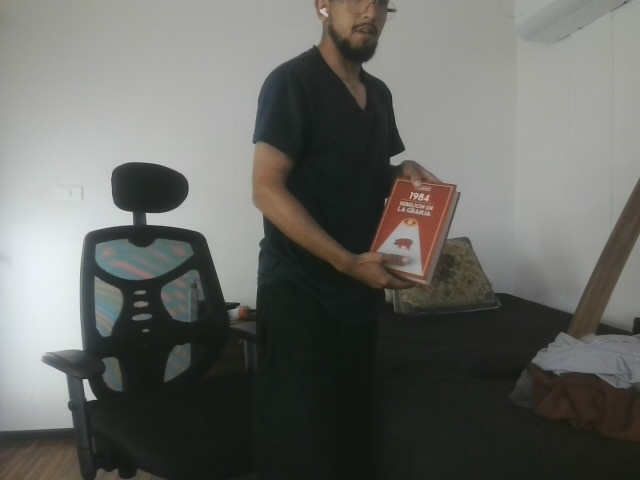
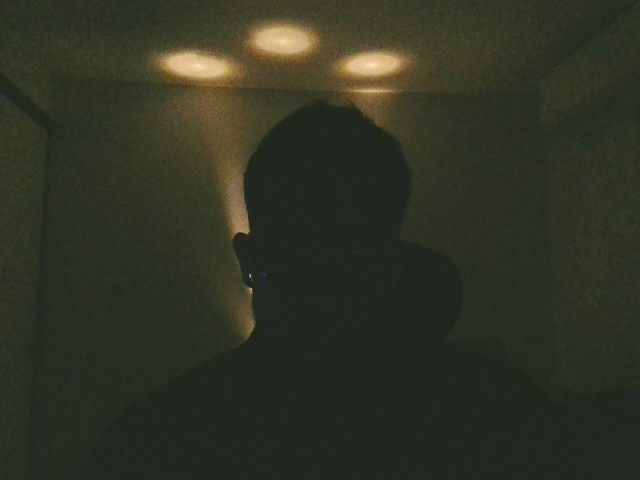
Initial commit: Estructura del proyecto y lógica

diff --git a/backend/monitor.py b/backend/monitor.py
@@ -2,91 +2,128 @@ import cv2
 from ultralytics import YOLO
 import requests
 import time
-import numpy as np
 
-# Configuración
+# --- CONFIGURACIÓN ---
+# Asegúrate de que api.py esté corriendo en el puerto 8000
 API_URL = "http://127.0.0.1:8000/analizar/1"
 model_obj = YOLO('yolov8n.pt')      
 model_pose = YOLO('yolov8n-pose.pt') 
 
+# [x1, y1, x2, y2]
 ESTANTE_ROI = [450, 100, 630, 450] 
 
 cap = cv2.VideoCapture(0)
 frame_buffer = []
 last_analysis_time = 0
 
-# --- NUEVOS PARÁMETROS DE INGENIERÍA ---
-frames_desaparecido = 0 
-UMBRAL_ROBO = 45 # Aumentamos a 45 frames (~1.5 a 2 segundos de "espera")
-objeto_es_de_la_tienda = False 
-visto_fuera_del_estante = 0 # Para asegurar que realmente lo tienes en la mano
+# --- PARÁMETROS DE INVENTARIO (FLEXIBLES) ---
+stock_esperado = {73: 1, "BOTELLA": 1} 
+frames_desaparicion = 0 
+UMBRAL_ROBO = 70 
 
-print("🛡️ SmartGuard Pro: Filtro de manipulación activo. Tolerancia 2s.")
+# Memoria de presencia
+frames_presencia_memoria = 0 
+MEMORIA_POSE_GRACIA = 30     
+
+print("🛡️ SmartGuard Pro: Sistema CONECTADO a la API. Vigilancia activa.")
 
 while cap.isOpened():
     success, frame = cap.read()
     if not success: break
 
     frame_buffer.append(frame.copy())
-    if len(frame_buffer) > 60: frame_buffer.pop(0) 
+    if len(frame_buffer) > 90: frame_buffer.pop(0) 
 
     # 1. ¿Hay alguien?
-    pose_results = model_pose(frame, stream=True, verbose=False)
-    persona_presente = any(r.keypoints is not None and len(r.keypoints.xy) > 0 for r in pose_results)
+    results_pose = model_pose(frame, stream=True, verbose=False)
+    pose_detectada_este_frame = any(r.keypoints is not None and len(r.keypoints.xy) > 0 for r in results_pose)
 
-    # 2. Rastrear Objeto
-    obj_results = model_obj(frame, stream=True, verbose=False, conf=0.3, imgsz=640)
-    objeto_ahora_visible = False
+    if pose_detectada_este_frame:
+        frames_presencia_memoria = MEMORIA_POSE_GRACIA
+        persona_presente_suavizada = True
+    else:
+        frames_presencia_memoria = max(0, frames_presencia_memoria - 1)
+        persona_presente_suavizada = frames_presencia_memoria > 0
+
+    # 2. Rastrear y Contar
+    obj_results = model_obj.track(frame, persist=True, conf=0.25, verbose=False)
     
-    for res in obj_results:
-        for box in res.boxes:
-            cls = int(box.cls[0])
-            if cls in [67, 73]: # Kindle/Libro
-                objeto_ahora_visible = True
-                x1, y1, x2, y2 = map(int, box.xyxy[0])
-                
-                # Check: ¿Está en el estante o ya salió?
-                en_estante = (x1 > ESTANTE_ROI[0] and x1 < ESTANTE_ROI[2]) and (y1 > ESTANTE_ROI[1] and y1 < ESTANTE_ROI[3])
-                
-                if en_estante:
-                    objeto_es_de_la_tienda = True
-                    visto_fuera_del_estante = 0 # Reset si vuelve al estante
+    conteo_actual = {73: 0, "BOTELLA": 0}
+    objeto_visto_fuera = False 
+    
+    if obj_results[0].boxes.id is not None:
+        clases_obj = obj_results[0].boxes.cls.cpu().numpy().astype(int)
+        boxes_obj = obj_results[0].boxes.xyxy.cpu().numpy().astype(int)
+
+        for box, cls in zip(boxes_obj, clases_obj):
+            x1, y1, x2, y2 = box
+            toca_estante = not (x2 < ESTANTE_ROI[0] or x1 > ESTANTE_ROI[2] or y2 < ESTANTE_ROI[1] or y1 > ESTANTE_ROI[3])
+
+            if cls == 0: # Persona
+                cv2.rectangle(frame, (x1, y1), (x2, y2), (255, 0, 0), 1)
+            
+            elif cls == 73 or cls == 67: # Libro o Kindle
+                if toca_estante:
+                    conteo_actual[73] += 1
+                    cv2.rectangle(frame, (x1, y1), (x2, y2), (0, 255, 0), 2)
                 else:
-                    if objeto_es_de_la_tienda:
-                        visto_fuera_del_estante += 1 # Contamos cuánto tiempo lo llevas en la mano
+                    objeto_visto_fuera = True
+                    cv2.rectangle(frame, (x1, y1), (x2, y2), (0, 255, 255), 2)
 
-                color = (0, 255, 255) if en_estante else (0, 0, 255)
-                cv2.rectangle(frame, (x1, y1), (x2, y2), color, 2)
+            elif cls == 39 or cls == 64: # Botella o Planta
+                if toca_estante:
+                    conteo_actual["BOTELLA"] += 1
+                    cv2.rectangle(frame, (x1, y1), (x2, y2), (0, 255, 0), 2)
+                else:
+                    objeto_visto_fuera = True
+                    cv2.rectangle(frame, (x1, y1), (x2, y2), (0, 255, 255), 2)
 
-    # --- LÓGICA DE DISPARO CON PACIENCIA ---
-    if objeto_es_de_la_tienda and persona_presente:
-        # Si el objeto no se ve...
-        if not objeto_ahora_visible:
-            # Y SOLO si ya lo habíamos visto fuera del estante (confirmación de posesión)
-            if visto_fuera_del_estante > 5:
-                frames_desaparecido += 1
-                
-                # Dibujar barra de carga de sospecha (Visual Feedback)
-                progreso = int((frames_desaparecido / UMBRAL_ROBO) * 200)
-                cv2.rectangle(frame, (10, 400), (10 + progreso, 430), (0, 0, 255), -1)
-                cv2.putText(frame, "VALIDANDO OCULTAMIENTO...", (10, 390), 1, 1, (0, 0, 255), 2)
+    # 3. --- LÓGICA DE FALTANTES ---
+    hay_faltante = (conteo_actual[73] < stock_esperado[73]) or (conteo_actual["BOTELLA"] < stock_esperado["BOTELLA"])
 
-                if frames_desaparecido > UMBRAL_ROBO:
-                    if time.time() - last_analysis_time > 20:
-                        print("🚨 ROBO CONFIRMADO: El objeto desapareció permanentemente.")
-                        cv2.imwrite("evidencia.jpg", frame_buffer[0]) # Foto de hace 2 segundos
-                        requests.post(API_URL, files={'file': open("evidencia.jpg", 'rb')})
-                        last_analysis_time = time.time()
-                        objeto_es_de_la_tienda = False 
-                        frames_desaparecido = 0
+    # 4. --- DECISIÓN ---
+    if persona_presente_suavizada:
+        if hay_faltante and not objeto_visto_fuera:
+            frames_desaparicion += 1
+            color_ui, mensaje = (0, 0, 255), "SOSPECHA: OBJETO OCULTO"
+        elif hay_faltante and objeto_visto_fuera:
+            frames_desaparicion = max(0, frames_desaparicion - 10)
+            color_ui, mensaje = (255, 255, 0), "CLIENTE REVISANDO"
         else:
-            # Si el objeto reaparece antes del umbral, TODO SE RESETEA. No hay robo.
-            frames_desaparecido = 0
+            frames_desaparicion = max(0, frames_desaparicion - 20)
+            color_ui, mensaje = (0, 255, 0), "STOCK SEGURO"
 
-    # UI
+        # UI
+        cv2.putText(frame, mensaje, (10, 35), 1, 1.3, color_ui, 2)
+        txt_stock = f"Libro: {conteo_actual[73]}/1 | Botella: {conteo_actual['BOTELLA']}/1"
+        cv2.putText(frame, txt_stock, (10, 65), 1, 1, (255, 255, 255), 1)
+
+        if frames_desaparicion > 5:
+            progreso = int((frames_desaparicion / UMBRAL_ROBO) * 200)
+            cv2.rectangle(frame, (10, 400), (10 + min(progreso, 200), 430), (0, 0, 255), -1)
+
+        # --- DISPARO DE ALERTA (ENVÍO REAL) ---
+        if frames_desaparicion > UMBRAL_ROBO:
+            if time.time() - last_analysis_time > 15:
+                print("🚨 ALERTA: Faltante confirmado. Enviando evidencia...")
+                cv2.imwrite("evidencia.jpg", frame_buffer[0]) 
+                
+                # Intentar enviar la foto a la API
+                try:
+                    with open("evidencia.jpg", 'rb') as f:
+                        response = requests.post(API_URL, files={'file': f})
+                    if response.status_code == 200:
+                        print("✅ Alerta enviada con éxito a Supabase.")
+                    else:
+                        print(f"⚠️ API respondió con error: {response.status_code}")
+                except Exception as e:
+                    print(f"❌ No se pudo conectar con la API: {e}")
+
+                last_analysis_time = time.time()
+                frames_desaparicion = 0
+
     cv2.rectangle(frame, (ESTANTE_ROI[0], ESTANTE_ROI[1]), (ESTANTE_ROI[2], ESTANTE_ROI[3]), (255, 255, 0), 1)
-    cv2.imshow("SmartGuard - Anti-Falsos Positivos", frame)
-    
+    cv2.imshow("SmartGuard Pro - Dashboard Link", frame)
     if cv2.waitKey(1) & 0xFF == ord('q'): break
 
 cap.release()